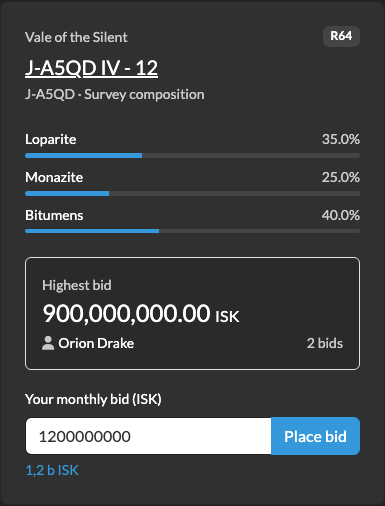
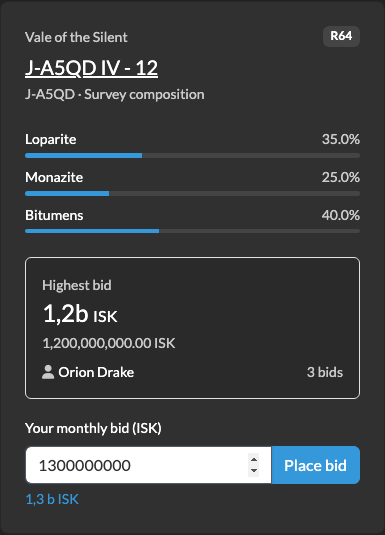
Display highest and winning bids in compact ISK format

diff --git a/moon_rental/templates/moon_rental/auction.html b/moon_rental/templates/moon_rental/auction.html
@@ -3,5 +3,5 @@
 <a class="small" href="{% url 'moon_rental:index' %}">← All auctions</a>
 <div class="d-flex justify-content-between align-items-start flex-wrap gap-3 mt-3 mb-4"><div><span class="badge {% if bidding_open %}text-bg-success{% else %}text-bg-secondary{% endif %} mb-2">{% if bidding_open %}Bidding open{% elif auction.settled_at %}Awarded{% else %}Bidding closed · awaiting settlement{% endif %}</span><h2 class="h3">{{ auction.title }}</h2><p class="text-body-secondary mb-0">{{ auction.duration_months }} months · {{ auction.get_billing_mode_display }} · Minimum {{ auction.minimum_bid|isk }} ISK</p></div><div class="card"><div class="card-body py-2 px-3"><div class="small text-body-secondary">Bidding closes</div><strong>{{ auction.ends_at|date:"d M Y · H:i" }} UTC</strong></div></div></div>
 <div class="alert alert-info small">Each moon is awarded to its highest bidder at close. Your bid is {% if auction.billing_mode == 'monthly' %}the monthly rent{% else %}the total rent for the full term{% endif %}. Bids are binding and cannot be withdrawn.</div>
-<div class="row g-4">{% for row in rows %}<div class="col-md-6 col-xxl-4"><article class="card h-100"><div class="card-body p-4"><div class="d-flex justify-content-between align-items-center mb-2"><span class="small text-body-secondary">{{ row.lot.moon.region }}</span><span class="badge text-bg-secondary">R{{ row.lot.moon.rarity }}</span></div><h3 class="h5 mb-1"><a class="text-reset" href="{% url 'moon_rental:moon' row.lot.moon.pk %}">{{ row.lot.moon.name }}</a></h3><div class="small text-body-secondary mb-4">{{ row.lot.moon.solar_system }} · Survey composition</div>{% include "moon_rental/composition.html" with moon=row.lot.moon %}<div class="mr-bid-box rounded border p-3 mt-4"><div class="small text-body-secondary">{% if auction.settled_at %}Winning bid{% else %}Highest bid{% endif %}</div><div class="h4 mr-numeric mt-1 mb-1">{% if row.top %}{{ row.top.amount|isk }} <small class="fs-6">ISK</small>{% else %}No bids yet{% endif %}</div><div class="small">{% if row.top %}<i class="fas fa-user me-1 text-body-secondary" aria-hidden="true"></i>{{ row.top.bidder }}{% else %}Be the first to bid{% endif %}<span class="text-body-secondary float-end">{{ row.count }} bid{{ row.count|pluralize }}</span></div></div>{% if bidding_open %}<form method="post" action="{% url 'moon_rental:bid' row.lot.pk %}" class="mt-3">{% csrf_token %}<label class="form-label small" for="bid-{{ row.lot.pk }}">Your {% if auction.billing_mode == 'monthly' %}monthly {% endif %}bid (ISK)</label><div class="input-group"><input class="form-control mr-numeric" id="bid-{{ row.lot.pk }}" name="amount" type="number" data-isk-input inputmode="decimal" min="{{ auction.minimum_bid }}" step="0.01" placeholder="Enter amount" required><button class="btn btn-info" type="submit">Place bid</button></div></form>{% endif %}</div></article></div>{% endfor %}</div>
+<div class="row g-4">{% for row in rows %}<div class="col-md-6 col-xxl-4"><article class="card h-100"><div class="card-body p-4"><div class="d-flex justify-content-between align-items-center mb-2"><span class="small text-body-secondary">{{ row.lot.moon.region }}</span><span class="badge text-bg-secondary">R{{ row.lot.moon.rarity }}</span></div><h3 class="h5 mb-1"><a class="text-reset" href="{% url 'moon_rental:moon' row.lot.moon.pk %}">{{ row.lot.moon.name }}</a></h3><div class="small text-body-secondary mb-4">{{ row.lot.moon.solar_system }} · Survey composition</div>{% include "moon_rental/composition.html" with moon=row.lot.moon %}<div class="mr-bid-box rounded border p-3 mt-4"><div class="small text-body-secondary">{% if auction.settled_at %}Winning bid{% else %}Highest bid{% endif %}</div><div class="h4 mr-numeric mt-1 mb-1">{% if row.top %}{{ row.top.amount|compact_isk }} <small class="fs-6">ISK</small>{% else %}No bids yet{% endif %}</div>{% if row.top %}<div class="small text-body-secondary mr-numeric mb-2">{{ row.top.amount|isk }} ISK</div>{% endif %}<div class="small">{% if row.top %}<i class="fas fa-user me-1 text-body-secondary" aria-hidden="true"></i>{{ row.top.bidder }}{% else %}Be the first to bid{% endif %}<span class="text-body-secondary float-end">{{ row.count }} bid{{ row.count|pluralize }}</span></div></div>{% if bidding_open %}<form method="post" action="{% url 'moon_rental:bid' row.lot.pk %}" class="mt-3">{% csrf_token %}<label class="form-label small" for="bid-{{ row.lot.pk }}">Your {% if auction.billing_mode == 'monthly' %}monthly {% endif %}bid (ISK)</label><div class="input-group"><input class="form-control mr-numeric" id="bid-{{ row.lot.pk }}" name="amount" type="number" data-isk-input inputmode="decimal" min="{{ auction.minimum_bid }}" step="0.01" placeholder="Enter amount" required><button class="btn btn-info" type="submit">Place bid</button></div></form>{% endif %}</div></article></div>{% endfor %}</div>
 {% endblock %}

diff --git a/moon_rental/templatetags/moon_rental.py b/moon_rental/templatetags/moon_rental.py
@@ -1,4 +1,4 @@
-from decimal import Decimal, InvalidOperation
+from decimal import ROUND_HALF_UP, Decimal, InvalidOperation
 
 from django import template
 
@@ -9,5 +9,21 @@ register = template.Library()
 def isk(value):
     try:
         return f"{Decimal(value):,.2f}"
+    except (InvalidOperation, TypeError, ValueError):
+        return "—"
+
+
+@register.filter
+def compact_isk(value):
+    """Compact display only; keep amounts as Decimal throughout formatting."""
+    try:
+        amount = Decimal(value)
+        if not amount.is_finite():
+            return "—"
+        for scale, suffix in [(10**12, "t"), (10**9, "b"), (10**6, "m"), (10**3, "k"), (1, "")]:
+            if abs(amount) >= scale or scale == 1:
+                rounded = (amount / scale).quantize(Decimal("0.01"), rounding=ROUND_HALF_UP)
+                number = format(rounded, "f").rstrip("0").rstrip(".")
+                return number.replace(".", ",") + suffix
     except (InvalidOperation, TypeError, ValueError):
         return "—"

diff --git a/README.md b/README.md
@@ -10,6 +10,7 @@ An Alliance Auth module for auctioning surveyed moons, managing leases and match
 - Managers open auctions for multiple available moons, choose a UTC deadline, term of 1–120 months, minimum bid and monthly (default) or single-payment billing.
 - Members see each moon's survey, highest bidder and bid amount. New bids must strictly exceed the current highest bid. Bids are binding; there is no withdrawal or early settlement endpoint.
 - Every ISK input shows a live compact preview, such as `1,2 b ISK`, while submitting the original exact amount. Previews use `k`, `m`, `b` and `t` for thousands, millions, billions and trillions.
+- Highest and winning bids use the same compact units (for example, `1,2b ISK`), with the full exact amount shown underneath.
 - Each moon is independently awarded at the deadline. Settlement is automatic and repeatable. An admin can end/correct an assignment; managers cannot alter existing leases, including auction awards.
 - Managers can directly assign available moons at a fixed rent. Members see current and past leases under **My moons**.
 - Calendar-month invoices, copyable payment references such as `moon-rental-A1B2.C3D4`, exact ISK amounts and recipient names. Managers see open, paid and void invoices for all renters; members see only their own.
